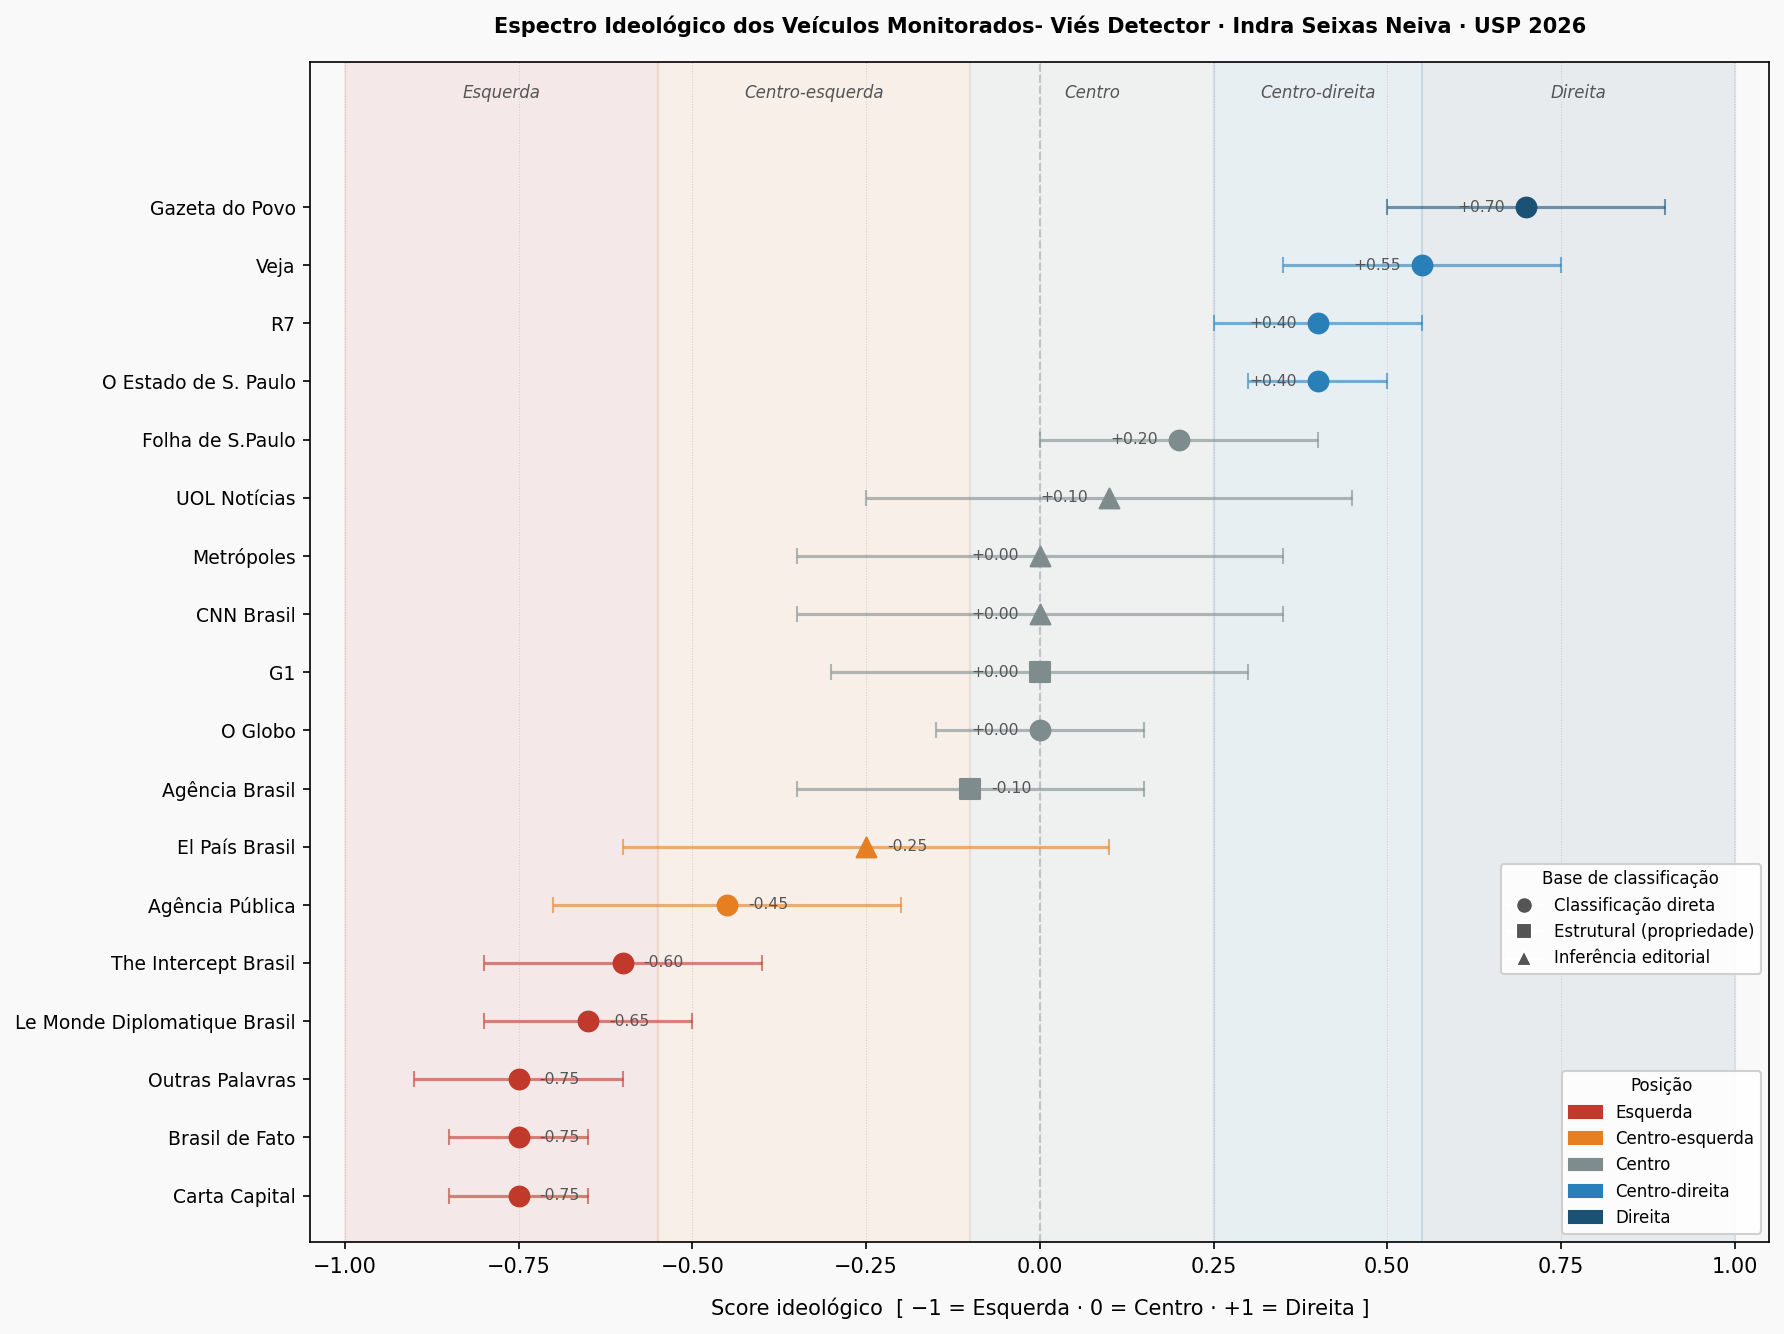
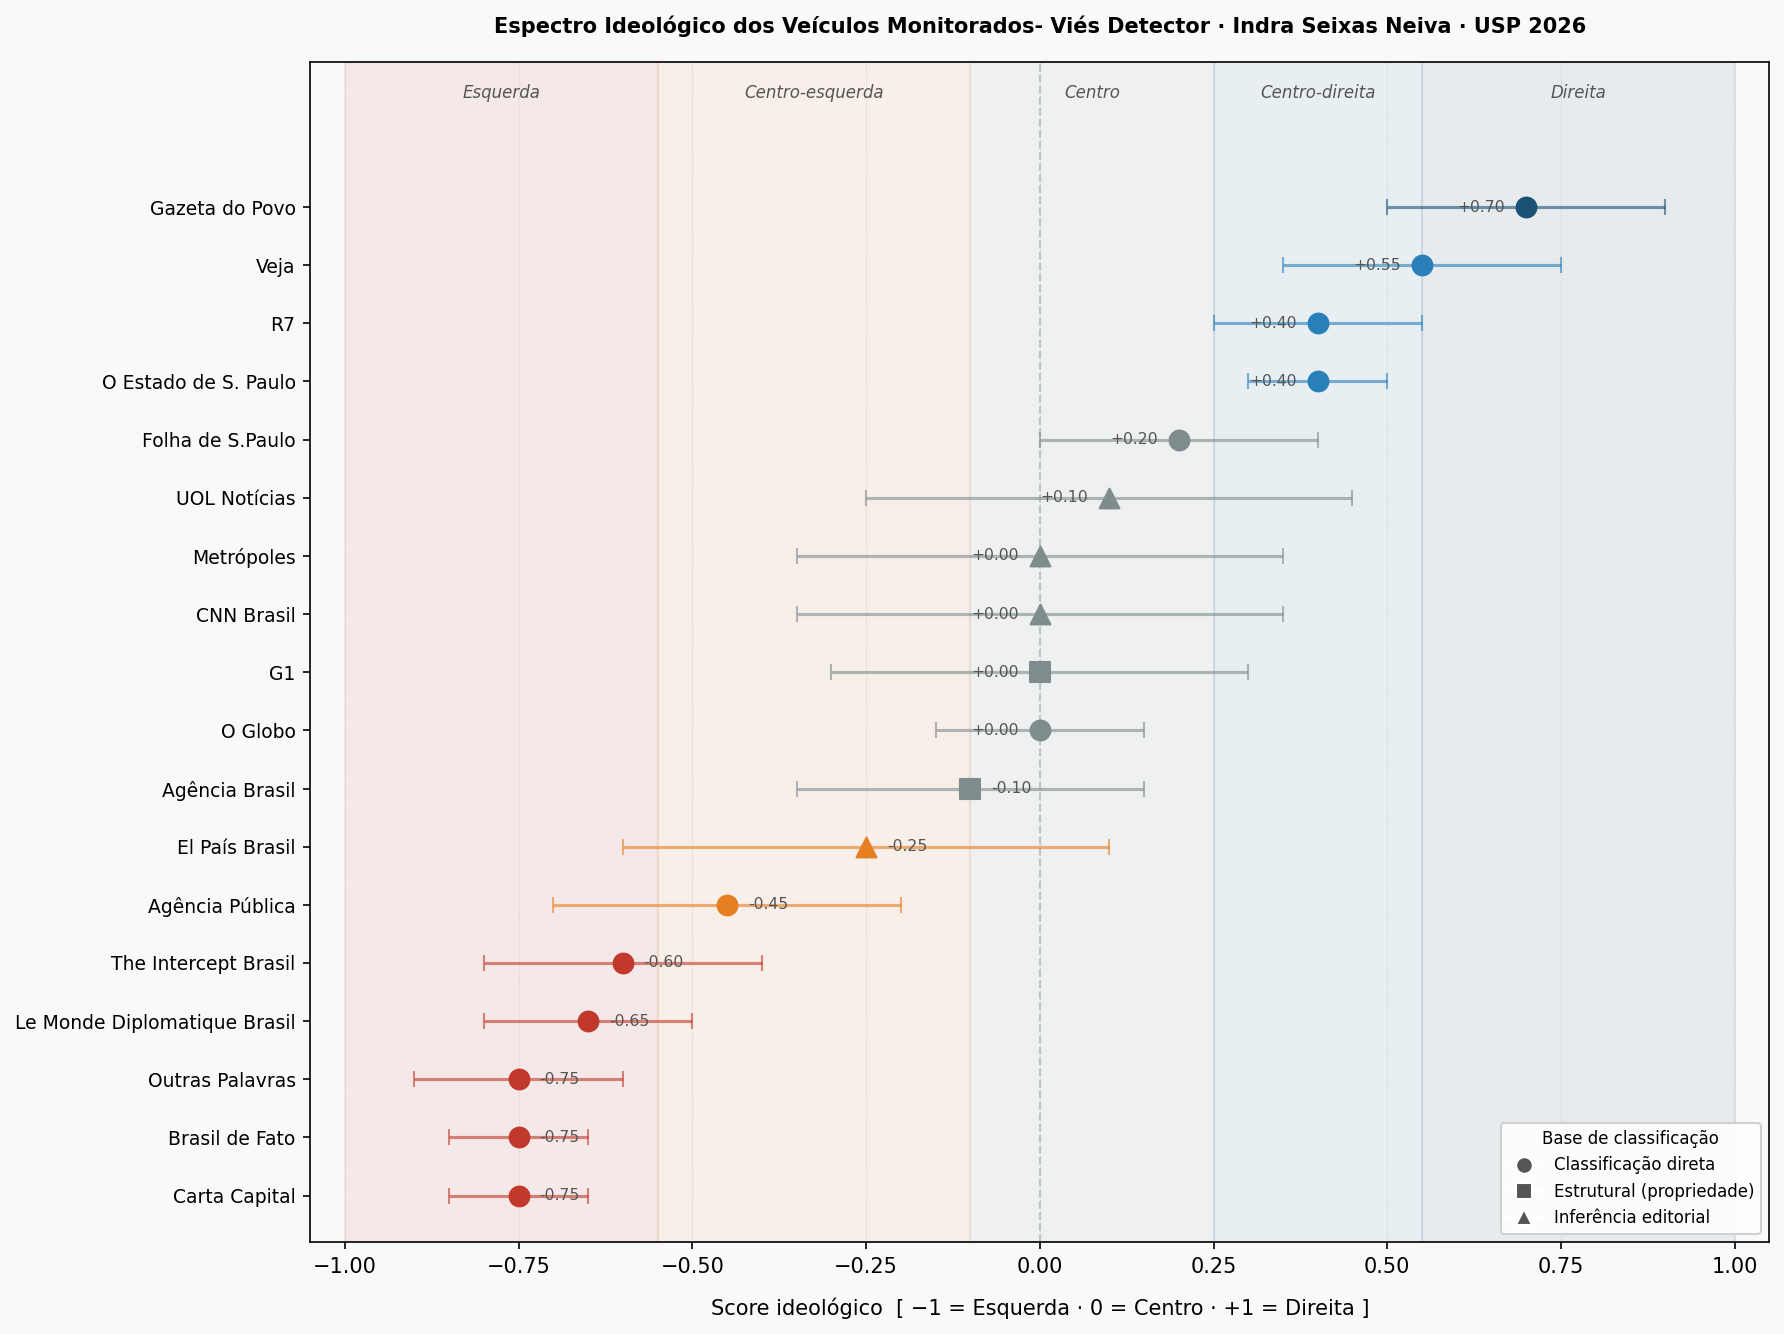
fix: remove legenda de posição redundante, mantém só base de classificação

Changed region(s): [[0.8324, 0.7991, 0.9865, 0.922], [0.8324, 0.6454, 0.9865, 0.7376]]

diff --git a/scripts/generate_spectrum_chart.py b/scripts/generate_spectrum_chart.py
@@ -11,7 +11,6 @@ Uso:
 import json
 from pathlib import Path
 import matplotlib.pyplot as plt
-import matplotlib.patches as mpatches
 import numpy as np
 
 # ── Caminhos ──────────────────────────────────────────────────────────────────
@@ -126,11 +125,6 @@ ax.set_title(
     fontsize=10, fontweight="bold", pad=14,
 )
 
-# Legenda — cores (posição)
-legend_pos = [
-    mpatches.Patch(color=c, label=l)
-    for l, c in COLOR_MAP.items()
-]
 # Legenda — marcadores (base de classificação)
 from matplotlib.lines import Line2D
 legend_basis = [
@@ -139,18 +133,10 @@ legend_basis = [
     Line2D([0], [0], marker="^", color="w", markerfacecolor="#555", markersize=8, label="Inferência editorial"),
 ]
 
-leg1 = ax.legend(
-    handles=legend_pos,
-    loc="lower right",
-    bbox_to_anchor=(1.0, 0.0),
-    fontsize=8, title="Posição", title_fontsize=8,
-    framealpha=0.9,
-)
-ax.add_artist(leg1)
 ax.legend(
     handles=legend_basis,
     loc="lower right",
-    bbox_to_anchor=(1.0, 0.22),
+    bbox_to_anchor=(1.0, 0.0),
     fontsize=8, title="Base de classificação", title_fontsize=8,
     framealpha=0.9,
 )
